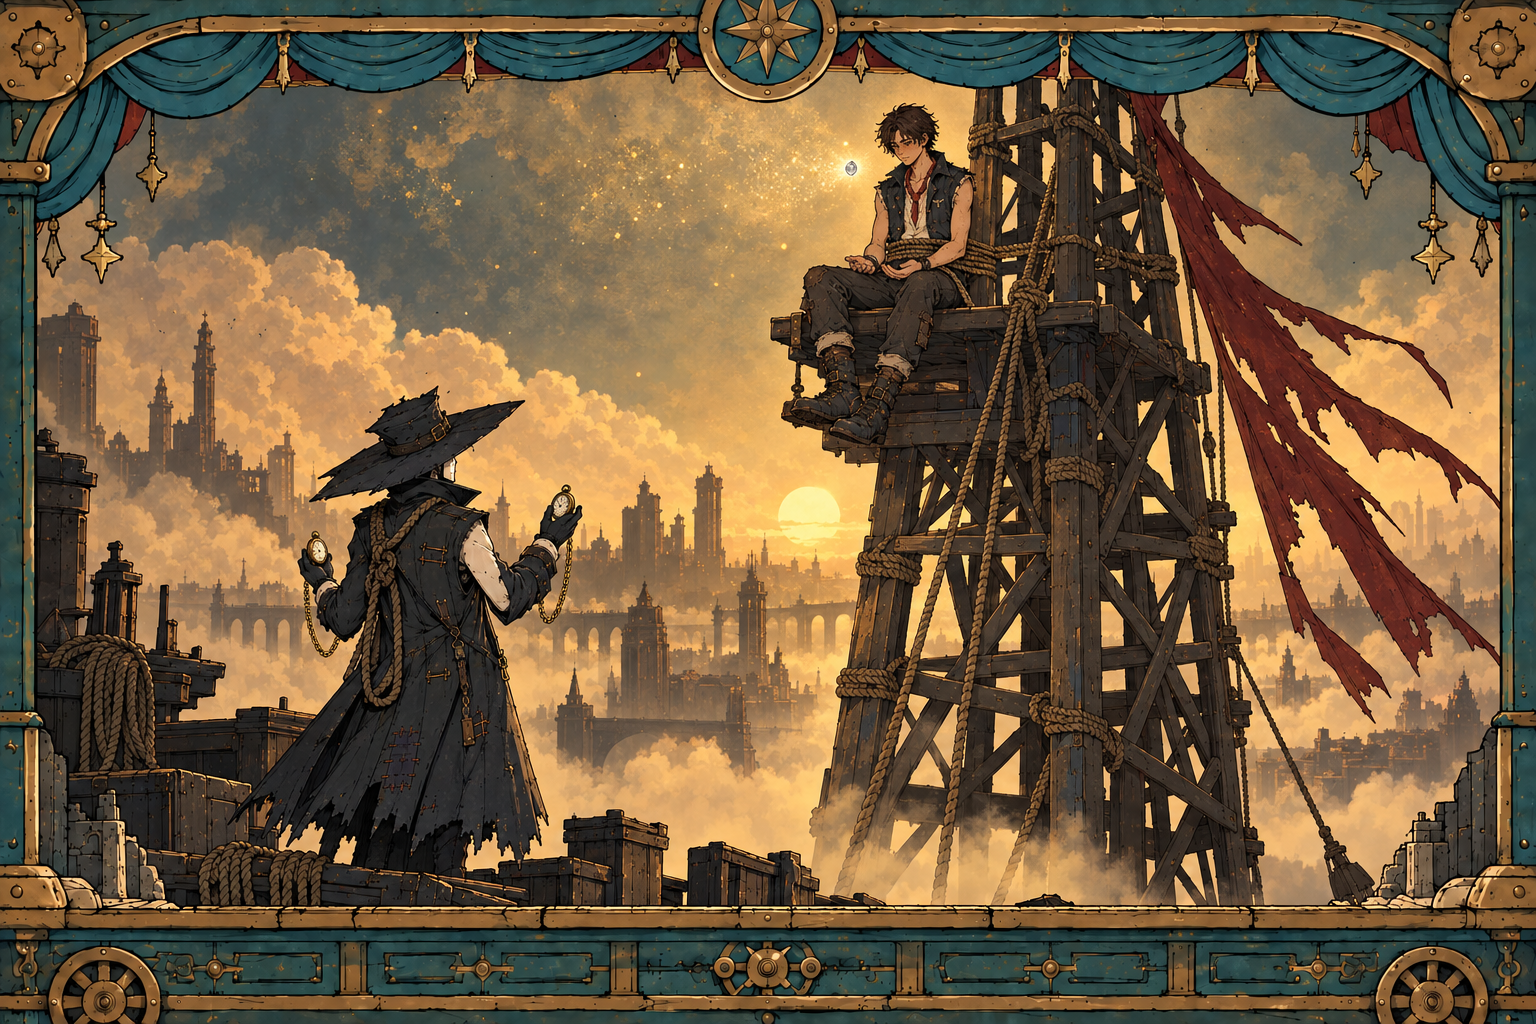
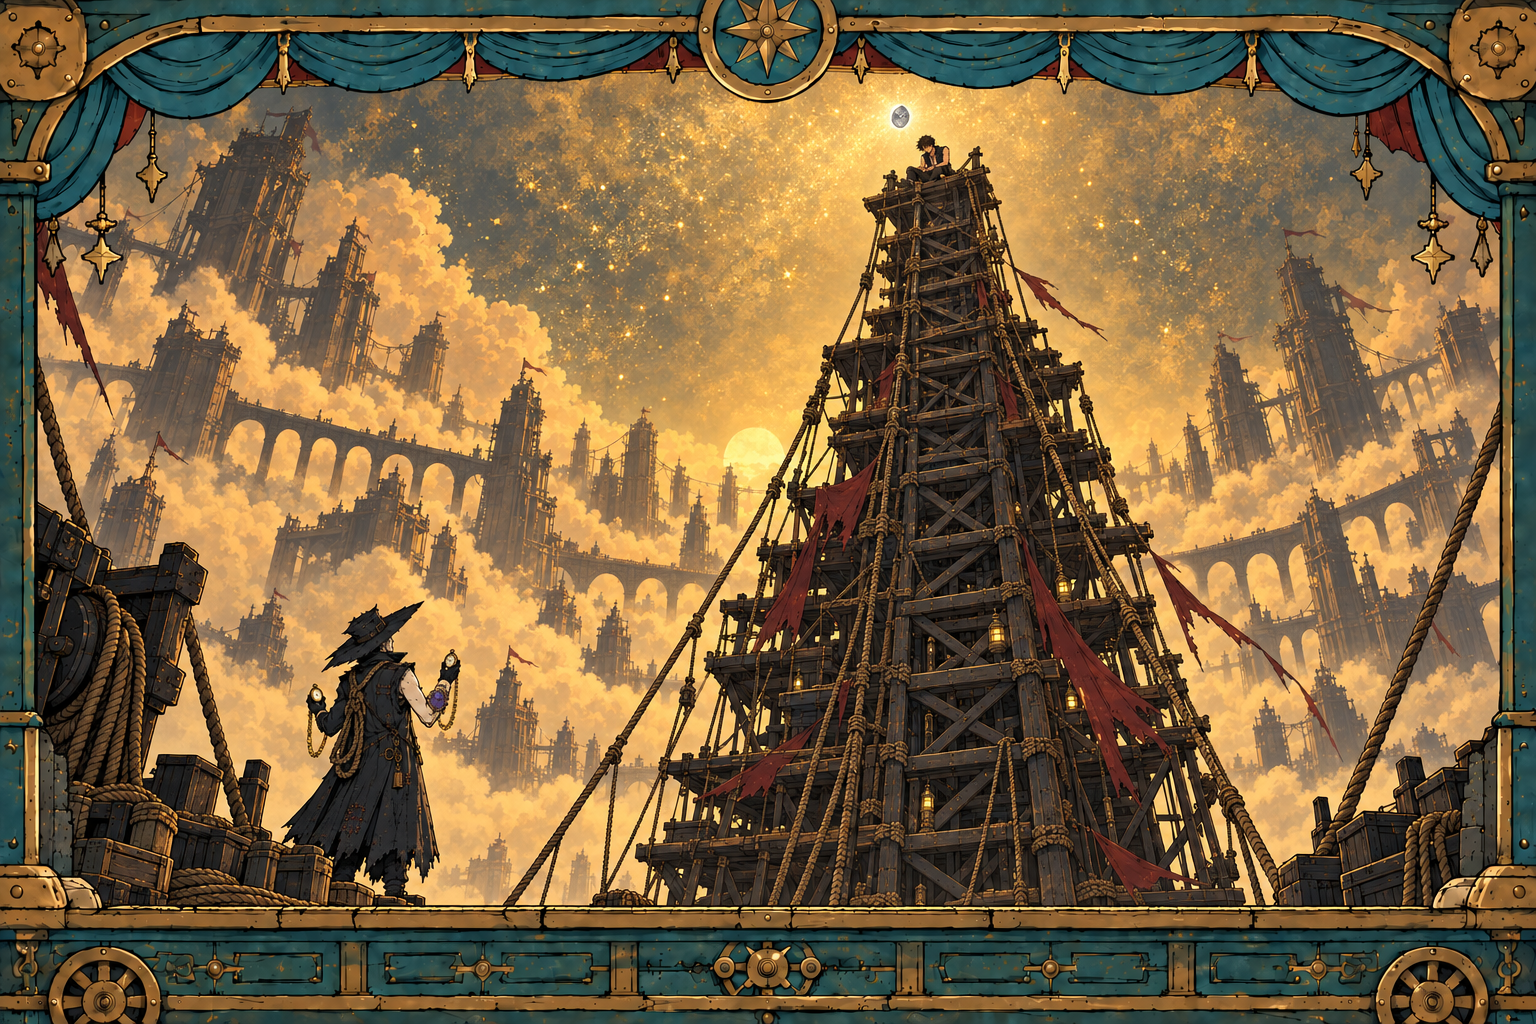
Expand Story Two visual pacing

diff --git a/app/story-reader.tsx b/app/story-reader.tsx
@@ -171,6 +171,9 @@ const storyTwoVisuals = [
   '/scenes/story-two/13-gil-catches-stone.png',
   '/scenes/story-two/14-five-back.png',
   '/scenes/story-two/15-linen-secret.png',
+  '/scenes/story-two/16-nell-waits.png',
+  '/scenes/story-two/17-nell-finds-sexton.png',
+  '/scenes/story-two/18-dragonflies.png',
 ].map((image) => ({ image, label: '', caption: '' }));
 
 const chapterVisuals = [
@@ -181,7 +184,7 @@ const chapterVisuals = [
 ];
 
 const storyTwoChapterVisuals = [
-  [0, 1, 1, 1, 1, 1, 1],
+  [0, 15, 16, 1, 17, 17, 1, 1, 1],
   [2, 2, 3, 3, 4, 4, 5, 5, 5, 6, 6],
   [6, 6, 7, 7, 8, 8, 8, 9, 9, 9, 9, 9, 10, 10, 10, 10, 10, 10],
   [10, 10, 10, 11, 11, 11, 11, 12, 12, 12, 13, 13, 13, 13, 14, 14, 14],

diff --git a/content/story-two.md b/content/story-two.md
@@ -16,9 +16,13 @@ Twice is a body. Once is a living return. The bell's on a post by the arrivals b
 
 Gate One is a railway station built round a door. Slate board, tiered benches, a roof over most of it and a stove that goes out. People come and sit there with no information at all, because a gate is not a timetable, and the ones who come every week are known to the clerks by name and are not discussed.
 
+---
+
 Nell Coombe was on the third bench. Ninth time in a month.
 
 It wasn't him. She told me all this afterwards, in the order she'd lived it, which is not the order I'm telling it in. The wrapping was wrong for a start, black and waxed and stitched at the head, and there was a woman four seats along who stood up when she saw it and made a noise, so at least it was somebody's.
+
+---
 
 Nell got the tram back into the city and asked at the Lazaret and got sent nine miles the wrong way, and found me on the steps of the receiving hall at about eleven at night with the wind coming up off the flats.
 
